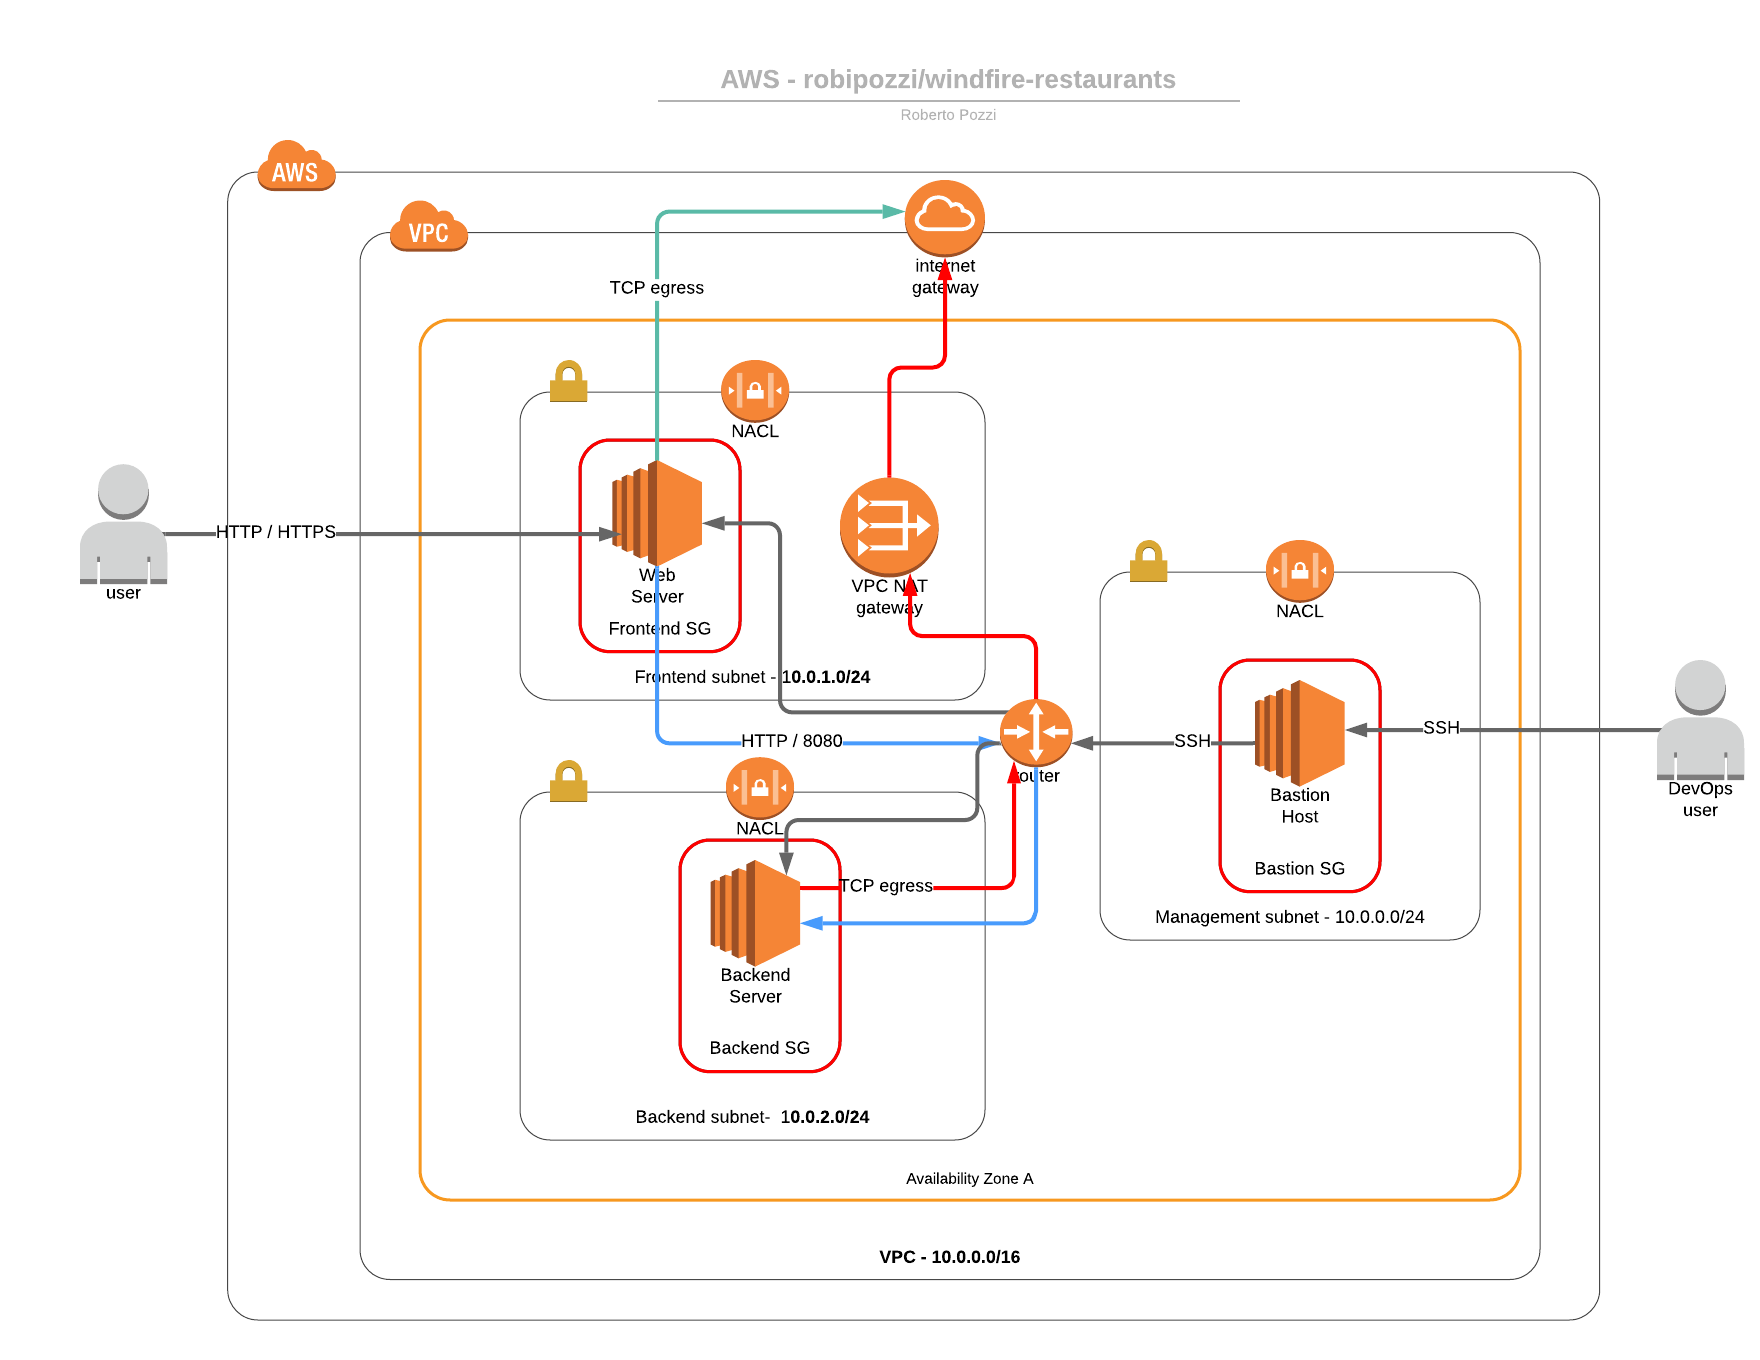
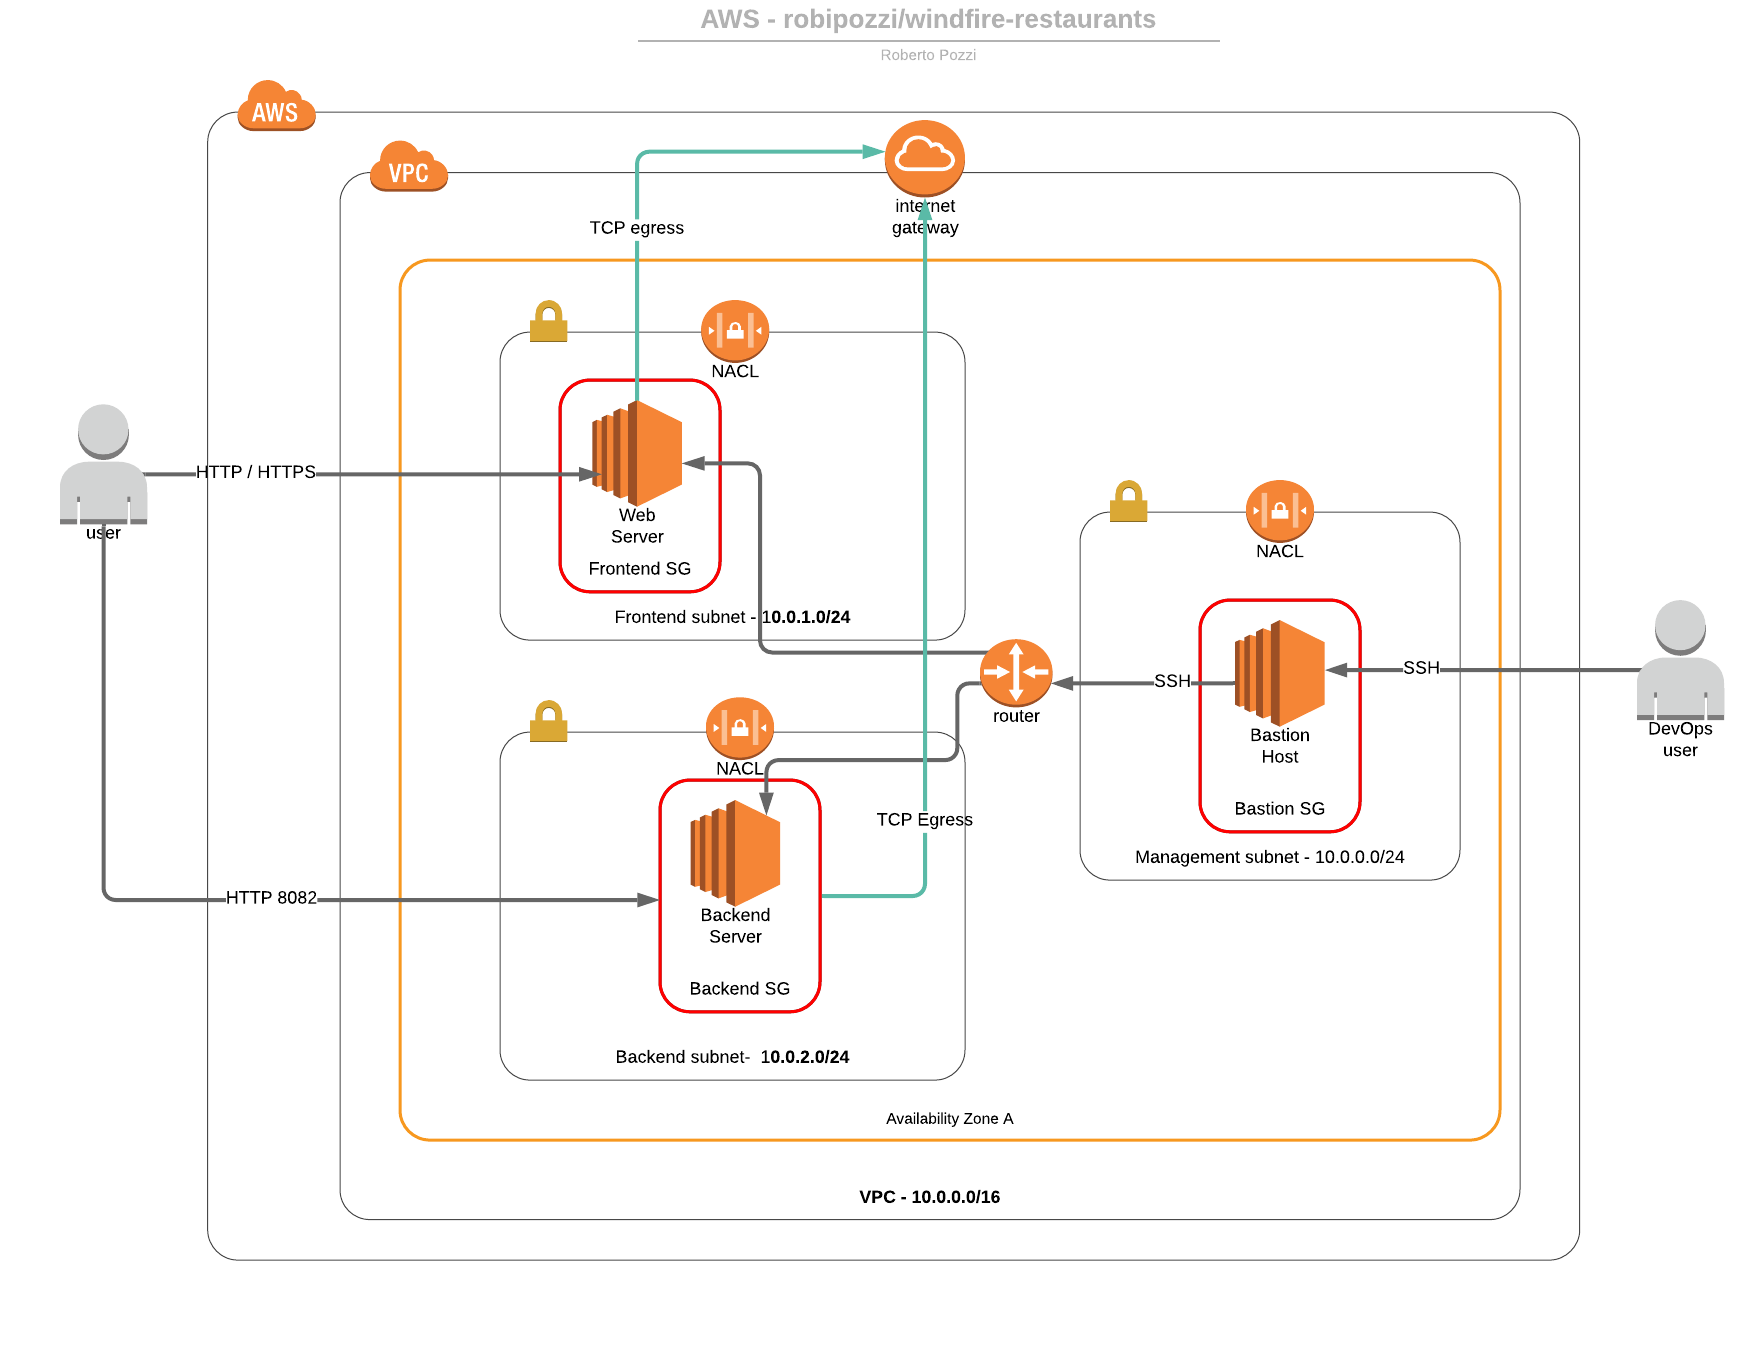
update

diff --git a/aws/README.md b/aws/README.md
@@ -1,10 +1,10 @@
-# Windfire Restaurants - AWS Single Zone Architecture
+# Windfire Restaurants - AWS Single Zone Architecture with publicly accessible subnets
 The overall architecture created by applying the Terraform configurations provided in this folder is the following
 
 ![](images/AWS-robipozzi_windfire-restaurants.png)
 
 The following files and scripts are provided for Terraform experimentations with AWS:
-* *provision.sh* - this script runs Terraform configurations. It actually runs Terraform *Infrastructure as Code* configurations against AWS and requires 2 parameters:
+* **provision.sh** - this script runs Terraform configurations. It actually runs Terraform *Infrastructure as Code* configurations against AWS and requires 2 parameters:
     * **AWS API KEY** : this is the API Key ID which needs to be generated through AWS IAM service and associated with an AWS User with the appropriate authorizations.
     * **AWS API SECRET**: this is the API Secret associated with the API Key
 * *aws.tf* - Terraform configuration that defines AWS provider parameters used by all Terraform configurations
@@ -12,10 +12,8 @@ The following files and scripts are provided for Terraform experimentations with
     * 1 VPC                 - it defines a VPC within an established AWS region and availability zone 
                               (by default they are AZ 'eu-central-1a' within 'eu-central-1' region)
     * 1 Internet Gateway    - it defines an Internet Gateway to allow egress to the Internet
-    * 1 NAT Gateway         - it defines a NAT Gateway to allow egress to the Internet for private subnets
-    * 2 Route Tables        - 1 Route Table for public route and 1 Route Table for private route are defined and associated to the
-                              appropriate Subnets (public route is associated to Bastion and Frontend subnets, private route to Backend subnet)
-    * 3 Subnets             - they are defined within the Availability zone: 1 Frontend subnet, 1 Backend subnet and 1 Subnet for Bastion Host
+    * 1 Route Table         - 1 Route Table for public route is defined and associated to the 3 Subnets 
+    * 3 Subnets             - they are defined within the Availability zone: 1 Frontend subnet, 1 Backend subnet and 1 Management Subnet for Bastion Host. Frontend subnet only allows HTTP/HTTPS ingress, Backend subnet only allow HTTP ingress on port 8082, Management Subnet only allows SSH ingress on port 22. 
     * 3 NACLs               - each Network ACL is defined for and associated to one subnet
     * 3 Security Groups     - Security Groups are defined for server roles, 1 for Web Servers, 1 for Backend Servers and 1 for the Bastion Host 
 * *ec2.tf* - Terraform configuration that creates 3 EC2 instances:
@@ -26,5 +24,4 @@ The following files and scripts are provided for Terraform experimentations with
   Each EC2 instance is configured with a *key_name* attribute for SSH connection, whose value is configured in *variables.tf* and, by default, is set to **aws-key**, meaning that a Key Pair with that name must be previously have been created in AWS.
 * *variables.tf* - this file externalizes all the variables used by Terraform configurations
 
-Backend subnet is a private one, the servers created within it do not have public IPs and the security group applied to them allows connections from Frontend subnet (ingress HTTP connections on port 8080) and from Bastion subnet (ingress SSH connections on port 22) only; 
-the script *ssh-bastion.sh* is provided to SSH into private servers jumping through Bastion Host.
+Either Frontend and Backend subnets, although public ones, allow SSH connections coming from Bastion subnet (ingress SSH connections on port 22) only. The script **ssh-bastion.sh** is provided to SSH into private servers jumping through Bastion Host.
